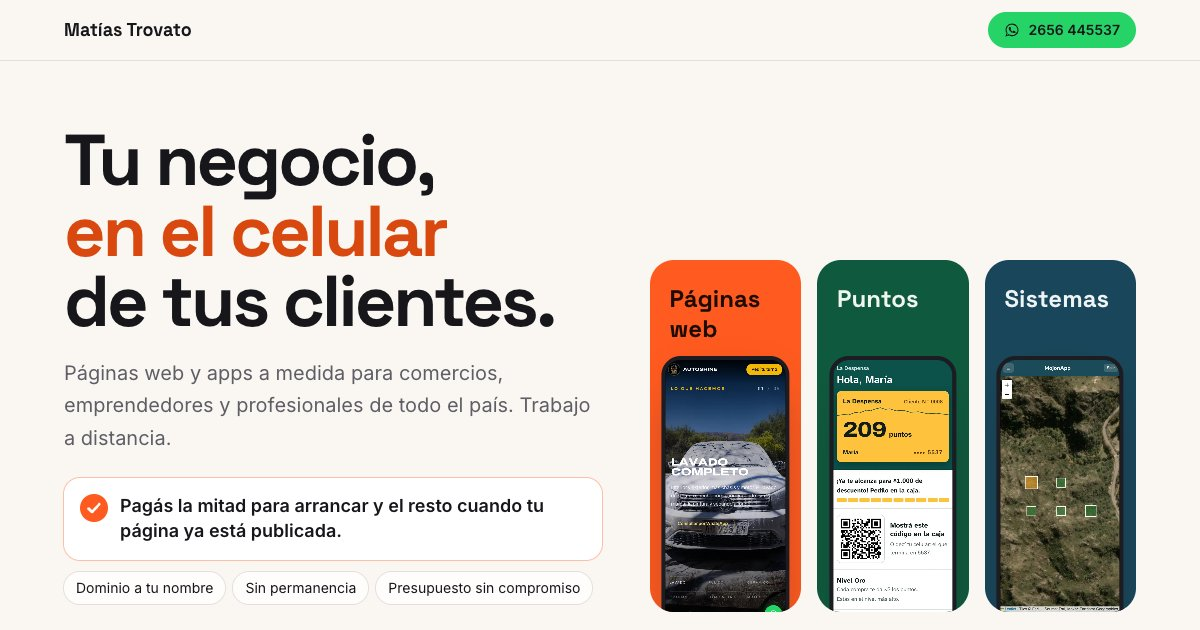
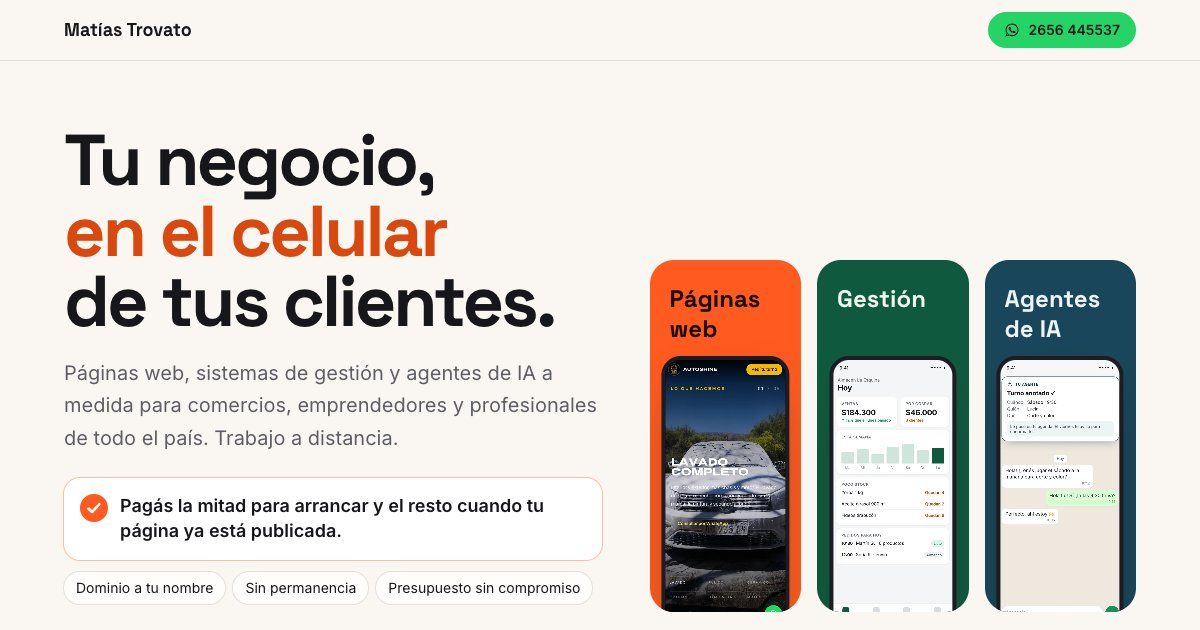
Página de venta: sistemas de gestión y agentes de IA en vez de las apps propias, y AutoShine como un trabajo más
Sumapuntos y MojonApp no se muestran hasta que estén para salir. Arriba, Gestión y Agentes de IA
son pantallas ilustrativas (negocios inventados). verificar.py inicio falla si vuelven los nombres.

diff --git a/inicio/src/App.tsx b/inicio/src/App.tsx
@@ -108,14 +108,14 @@ function Rubros() {
           <li key={r.id} data-rubro={r.id} className={`flex flex-col rounded-3xl p-6 md:p-8 ${r.color}`}>
             <h3 className="font-display text-2xl leading-tight font-bold md:text-3xl">{r.titulo}</h3>
             <p className="mt-2 leading-relaxed opacity-90">{r.texto}</p>
-            <p className="mt-auto flex flex-wrap items-center gap-2 pt-6 text-sm">
+            {r.ejemplos.length > 0 && <p className="mt-auto flex flex-wrap items-center gap-2 pt-6 text-sm">
               <span className="opacity-80">Mirá:</span>
               {r.ejemplos.map((e) => (
                 <a key={e.nombre} href={e.href} {...afuera(e.href)} data-ejemplo={e.tipo} className="rounded-full px-3.5 py-1.5 font-semibold ring-1 ring-current/35 transition hover:bg-white/15">
                   {e.nombre} <span className="font-normal opacity-75">· {NOMBRE_TIPO[e.tipo]}</span>
                 </a>
               ))}
-            </p>
+            </p>}
           </li>
         ))}
         <li data-rubro="otro" className="rounded-3xl border-2 border-dashed border-tinta/20 p-6 md:col-span-2 md:flex md:items-center md:justify-between md:gap-8 md:p-8">
@@ -190,16 +190,14 @@ function Incluye() {
 }
 
 // Cada trabajo en una tarjeta grande: el celular asoma desde un fondo de color y abajo va qué es.
-// Si la sección tiene una sola página (el cliente), en pantallas grandes la tarjeta va a lo ancho.
 // Las apps no tienen link: piden usuario para entrar.
 function Tarjetas({ seccion }: { seccion: Seccion }) {
-  const sola = seccion.trabajos.length === 1;
   const tono = TONOS[seccion.tipo];
   return (
     <section id={seccion.id} className="mt-12 scroll-mt-20 md:mt-16">
       <h3 className="font-display text-2xl font-bold md:text-3xl">{seccion.titulo}</h3>
       {seccion.nota && <p className="mt-3 max-w-2xl text-[15px] leading-relaxed text-suave md:text-base">{seccion.nota}</p>}
-      <ul className={`mt-6 grid gap-5 ${sola ? "" : seccion.trabajos.length === 2 ? "md:grid-cols-2" : "md:grid-cols-2 lg:grid-cols-3"}`}>
+      <ul className={`mt-6 grid gap-5 ${seccion.trabajos.length <= 2 ? "md:grid-cols-2" : "md:grid-cols-2 lg:grid-cols-3"}`}>
         {seccion.trabajos.map((t) => {
           const Caja = t.href ? "a" : "div";
           return (
@@ -208,19 +206,19 @@ function Tarjetas({ seccion }: { seccion: Seccion }) {
                 {...(t.href ? { href: t.href, ...afuera(t.href) } : {})}
                 data-trabajo={t.id}
                 data-tipo={seccion.tipo}
-                className={`group grid h-full overflow-hidden rounded-3xl bg-panel ring-1 ring-linea transition ${t.href ? "hover:-translate-y-1 hover:shadow-[0_24px_50px_-28px_rgba(23,23,27,0.5)]" : ""} ${sola ? "md:grid-cols-[0.9fr_1.1fr]" : ""}`}
+                className={`group grid h-full overflow-hidden rounded-3xl bg-panel ring-1 ring-linea transition ${t.href ? "hover:-translate-y-1 hover:shadow-[0_24px_50px_-28px_rgba(23,23,27,0.5)]" : ""}`}
               >
-                <div className={`flex h-80 items-start justify-center overflow-hidden pt-8 ${tono.fondo} ${sola ? "md:h-auto md:min-h-96" : ""}`}>
+                <div className={`flex h-80 items-start justify-center overflow-hidden pt-8 ${tono.fondo}`}>
                   <div className="telefono w-44 shrink-0 text-[8px] transition duration-500 group-hover:-translate-y-2 md:w-48">
                     <img src={captura(`${t.id}-movil`)} alt={ALT[seccion.tipo](t.nombre)} loading="lazy" />
                   </div>
                 </div>
-                <div className={`flex flex-col p-6 ${sola ? "md:justify-center md:p-10" : ""}`}>
+                <div className="flex flex-col p-6">
                   <p className="flex flex-wrap items-center gap-x-2 gap-y-1">
                     <span className={`rounded-full px-3 py-1 text-sm font-bold ${tono.etiqueta}`}>{seccion.etiqueta}</span>
                     <span className="text-sm text-suave">{seccion.detalle}</span>
                   </p>
-                  <h4 className={`font-display mt-3 leading-tight font-bold ${sola ? "text-3xl md:text-4xl" : "text-2xl"}`}>{t.nombre}</h4>
+                  <h4 className={`font-display mt-3 leading-tight font-bold text-2xl`}>{t.nombre}</h4>
                   <p className="mt-1 text-sm text-suave">{t.rubro}</p>
                   <p className="mt-3 text-[15px] leading-relaxed">{t.texto}</p>
                   {t.href && (
@@ -292,7 +290,7 @@ export default function App() {
         </section>
 
         <footer className="mt-10 text-center text-xs text-suave">
-          Matías Trovato · Páginas web y apps ·{" "}
+          Matías Trovato · Páginas web, sistemas y agentes de IA ·{" "}
           <a href="https://matitrova.github.io" className="underline underline-offset-2">matitrova.github.io</a>
         </footer>
       </main>

diff --git a/inicio/src/textos.ts b/inicio/src/textos.ts
@@ -9,14 +9,15 @@ export const MENSAJE_OTRO_RUBRO = "Hola Matías! Mi rubro no está en tu página
 
 export const PORTADA = {
   titulo: ["Tu negocio,", "en el celular", "de tus clientes."],
-  bajada: "Páginas web y apps a medida para comercios, emprendedores y profesionales de todo el país. Trabajo a distancia.",
+  bajada: "Páginas web, sistemas de gestión y agentes de IA a medida para comercios, emprendedores y profesionales de todo el país. Trabajo a distancia.",
   garantia: "Pagás la mitad para arrancar y el resto cuando tu página ya está publicada.",
   extras: ["Dominio a tu nombre", "Sin permanencia", "Presupuesto sin compromiso"],
-  // Los tres celulares de la portada, como en el flyer
+  // Los tres celulares de la portada, como en el flyer. Gestión y agente son pantallas ilustrativas (negocios inventados):
+  // las apps propias no se muestran hasta que estén para salir (pedido del 02/11)
   muestras: [
     { id: "autoshine", titulo: "Páginas web", alt: "Captura de la página de AutoShine", color: "bg-acento text-[#1d0c04]" },
-    { id: "sumapuntos", titulo: "Puntos", alt: "Captura de Sumapuntos, el programa de puntos", color: "bg-verde text-[#f1f6ef]" },
-    { id: "mojonapp", titulo: "Sistemas", alt: "Captura de MojonApp con lotes sobre el mapa", color: "bg-azul text-[#eef4f6]" },
+    { id: "gestion", titulo: "Gestión", alt: "Pantalla ilustrativa de un sistema de gestión con ventas, stock y pedidos", color: "bg-verde text-[#f1f6ef]" },
+    { id: "agente", titulo: "Agentes de IA", alt: "Pantalla ilustrativa: un agente de IA anota en la agenda un turno acordado por WhatsApp", color: "bg-azul text-[#eef4f6]" },
   ],
 };
 
@@ -40,15 +41,14 @@ export const RUBROS: { id: string; titulo: string; texto: string; color: string;
     titulo: "Inmobiliarias",
     texto: "Tus propiedades y lotes sobre el mapa, y un sistema para seguir clientes y ventas.",
     color: "bg-azul text-[#eef4f6]",
-    ejemplos: [{ nombre: "MojonApp", tipo: "app", href: "#apps" }],
+    ejemplos: [],
   },
   {
     id: "locales",
-    titulo: "Locales con clientes que vuelven",
-    texto: "Un programa de puntos para que vuelvan, y la carta o los precios siempre al día en el celular.",
+    titulo: "Locales y comercios",
+    texto: "Stock, ventas y clientes en un solo lugar, y la carta o los precios siempre al día en el celular.",
     color: "bg-verde text-[#f1f6ef]",
     ejemplos: [
-      { nombre: "Sumapuntos", tipo: "app", href: "#apps" },
       { nombre: "Casa Tala", tipo: "ejemplo", href: "./casa-tala/" },
     ],
   },
@@ -133,30 +133,8 @@ export const SECCIONES: Seccion[] = [
         id: "autoshine",
         nombre: "AutoShine",
         rubro: "Lavadero y estética de autos · Merlo",
-        texto: "Los clientes piden turno en la página y el pedido le llega directo al WhatsApp.",
+        texto: "Los servicios, fotos del taller y el pedido de turno por WhatsApp.",
         href: "https://autoshine.com.ar",
-      },
-    ],
-  },
-  {
-    id: "apps",
-    titulo: "Apps y sistemas",
-    tipo: "app",
-    etiqueta: "App propia",
-    detalle: "Desarrollada por mí",
-    nota: "Se usan con usuario y contraseña, por eso no tienen link. Si querés verlas andando, escribime y te las muestro.",
-    trabajos: [
-      {
-        id: "sumapuntos",
-        nombre: "Sumapuntos",
-        rubro: "Programa de puntos para locales",
-        texto: "Los clientes suman puntos en cada compra y vuelven por el premio. El local los carga en segundos desde la caja.",
-      },
-      {
-        id: "mojonapp",
-        nombre: "MojonApp",
-        rubro: "Sistema para inmobiliarias",
-        texto: "Clientes, ventas y los lotes dibujados sobre el mapa satelital.",
       },
     ],
   },

diff --git a/index.html b/index.html
@@ -4,12 +4,12 @@
     <meta charset="UTF-8" />
     <meta name="viewport" content="width=device-width, initial-scale=1.0" />
     <meta name="theme-color" content="#faf7f2" />
-    <title>Matías Trovato · Páginas web y apps para negocios de todo el país</title>
-    <meta name="description" content="Páginas web y apps a medida para comercios, emprendedores y profesionales de todo el país. Pagás la mitad para arrancar y el resto cuando está publicada. Presupuesto sin compromiso por WhatsApp." />
+    <title>Matías Trovato · Páginas web, sistemas y agentes de IA para negocios</title>
+    <meta name="description" content="Páginas web, sistemas de gestión y agentes de IA a medida para comercios, emprendedores y profesionales de todo el país. Pagás la mitad para arrancar y el resto cuando está publicada. Presupuesto sin compromiso por WhatsApp." />
     <link rel="canonical" href="https://matiastrovato.pages.dev/" />
     <meta property="og:type" content="website" />
     <meta property="og:url" content="https://matiastrovato.pages.dev/" />
-    <meta property="og:title" content="Matías Trovato · Páginas web y apps para negocios de todo el país" />
+    <meta property="og:title" content="Matías Trovato · Páginas web, sistemas y agentes de IA para negocios" />
     <meta property="og:description" content="Pagás la mitad para arrancar y el resto cuando tu página está publicada. Presupuesto sin compromiso por WhatsApp." />
     <meta property="og:image" content="https://matiastrovato.pages.dev/inicio/og.jpg" />
     <meta property="og:image:width" content="1200" />

diff --git a/scripts/verificar.py b/scripts/verificar.py
@@ -232,6 +232,14 @@ def inicio(pg, nombre, cap):
         if m := re.search(patron, todo):
             problemas.append(f"{nombre}: aparece {que}: «{m.group(0)}»")
 
+    # Las apps propias no se nombran hasta que estén para salir (pedido del 02/11), y arriba van los tres servicios
+    for malo in ("Sumapuntos", "MojonApp"):
+        if malo in todo or malo.lower() in pg.content().lower():
+            problemas.append(f"{nombre}: aparece {malo}")
+    arriba = [" ".join(t.split()) for t in pg.locator("#arriba figcaption").all_inner_texts()]
+    if arriba != ["Páginas web", "Gestión", "Agentes de IA"]:
+        problemas.append(f"{nombre}: los celulares de arriba son {arriba}")
+
     # Rubros: los cuatro y el de cualquier rubro; cada ejemplo dice qué es y lleva a algo que existe
     rubros = pg.evaluate("""[...document.querySelectorAll('[data-rubro]')].map(li => ({ id: li.dataset.rubro,
         ejemplos: [...li.querySelectorAll('[data-ejemplo]')].map(a => ({ tipo: a.dataset.ejemplo, href: a.getAttribute('href'), texto: a.innerText })) }))""")
@@ -253,7 +261,7 @@ def inicio(pg, nombre, cap):
     tarjetas = pg.evaluate("""[...document.querySelectorAll('[data-trabajo]')].map(a => ({
         id: a.dataset.trabajo, tipo: a.dataset.tipo, href: a.href || null, texto: a.innerText }))""")
     propuestas = ("mirador-de-los-condores", "cabeza-del-indio", "hosteria-vegetariana")
-    esperado = {"autoshine": ("cliente", "https://autoshine.com.ar/"), "sumapuntos": ("app", None), "mojonapp": ("app", None),
+    esperado = {"autoshine": ("cliente", "https://autoshine.com.ar/"),
                 "cabanas": ("ejemplo", BASE + "cabanas/"), "casa-tala": ("ejemplo", BASE + "casa-tala/"),
                 **{p: ("propuesta", BASE + f"propuestas/{p}/") for p in propuestas}}
     vistos = {t["id"]: (t["tipo"], t["href"]) for t in tarjetas}
@@ -267,7 +275,7 @@ def inicio(pg, nombre, cap):
             problemas.append(f"{nombre}: la tarjeta {t['id']} parece de un cliente")
         if t["href"] and t["href"].startswith(BASE) and not (DIST / t["href"][len(BASE):] / "index.html").is_file():
             problemas.append(f"{nombre}: {t['id']} apunta a una página que no está en dist/")
-    for seccion, frase in [("#propuestas", "No las encargaron"), ("#ejemplos", "no existen"), ("#apps", "usuario"), ("#incluye", "Consultas a tu WhatsApp"),
+    for seccion, frase in [("#propuestas", "No las encargaron"), ("#ejemplos", "no existen"), ("#incluye", "Consultas a tu WhatsApp"),
                            ("#abono", "Hasta 5 cambios por mes"), ("#abono", "sin permanencia"), ("#pasos", "Te paso el presupuesto"), ("#preguntas", "¿Cuánto sale?")]:
         if frase not in pg.locator(seccion).inner_text():
             problemas.append(f"{nombre}: a {seccion} le falta «{frase}»")
@@ -286,7 +294,7 @@ def inicio(pg, nombre, cap):
     if len(wsp) < 5 or not all(h.startswith("https://wa.me/5492656445537?text=") for h in wsp) or not any(c == "mail" and h.startswith("mailto:matitrova13@gmail.com") for c, h in botones):
         problemas.append(f"{nombre}: botones de contacto {botones}")
 
-    for sel, n in [("#rubros", "2-rubros"), ("#pasos", "3-pasos"), ("#abono", "4-abono"), ("#trabajos", "5-trabajos"), ("#apps", "6-apps"), ("#propuestas", "7-propuestas"), ("#preguntas", "8-preguntas")]:
+    for sel, n in [("#rubros", "2-rubros"), ("#pasos", "3-pasos"), ("#abono", "4-abono"), ("#trabajos", "5-trabajos"), ("#propuestas", "7-propuestas"), ("#preguntas", "8-preguntas")]:
         pg.evaluate(f"document.querySelector('{sel}').scrollIntoView()")
         pg.wait_for_timeout(700)
         cap(n)

diff --git a/scripts/capturas_inicio.py b/scripts/capturas_inicio.py
@@ -2,7 +2,8 @@
 Salen a public/inicio/<sitio>-movil.webp (600 px). Después arma og.jpg desde dist/.
 
 Uso:  ../Test1_Inmo/.venv/bin/python scripts/capturas_inicio.py
-      (con --og solo rehace og.jpg; Sumapuntos y MojonApp no salen de acá: piden usuario, son las del flyer)
+      (con --og solo rehace og.jpg; gestion y agente no salen de acá: son las pantallas ilustrativas de
+      ~/flyer-servicios/pantallas, que las genera con generar.py <public/inicio>)
 """
 import io
 import mimetypes
